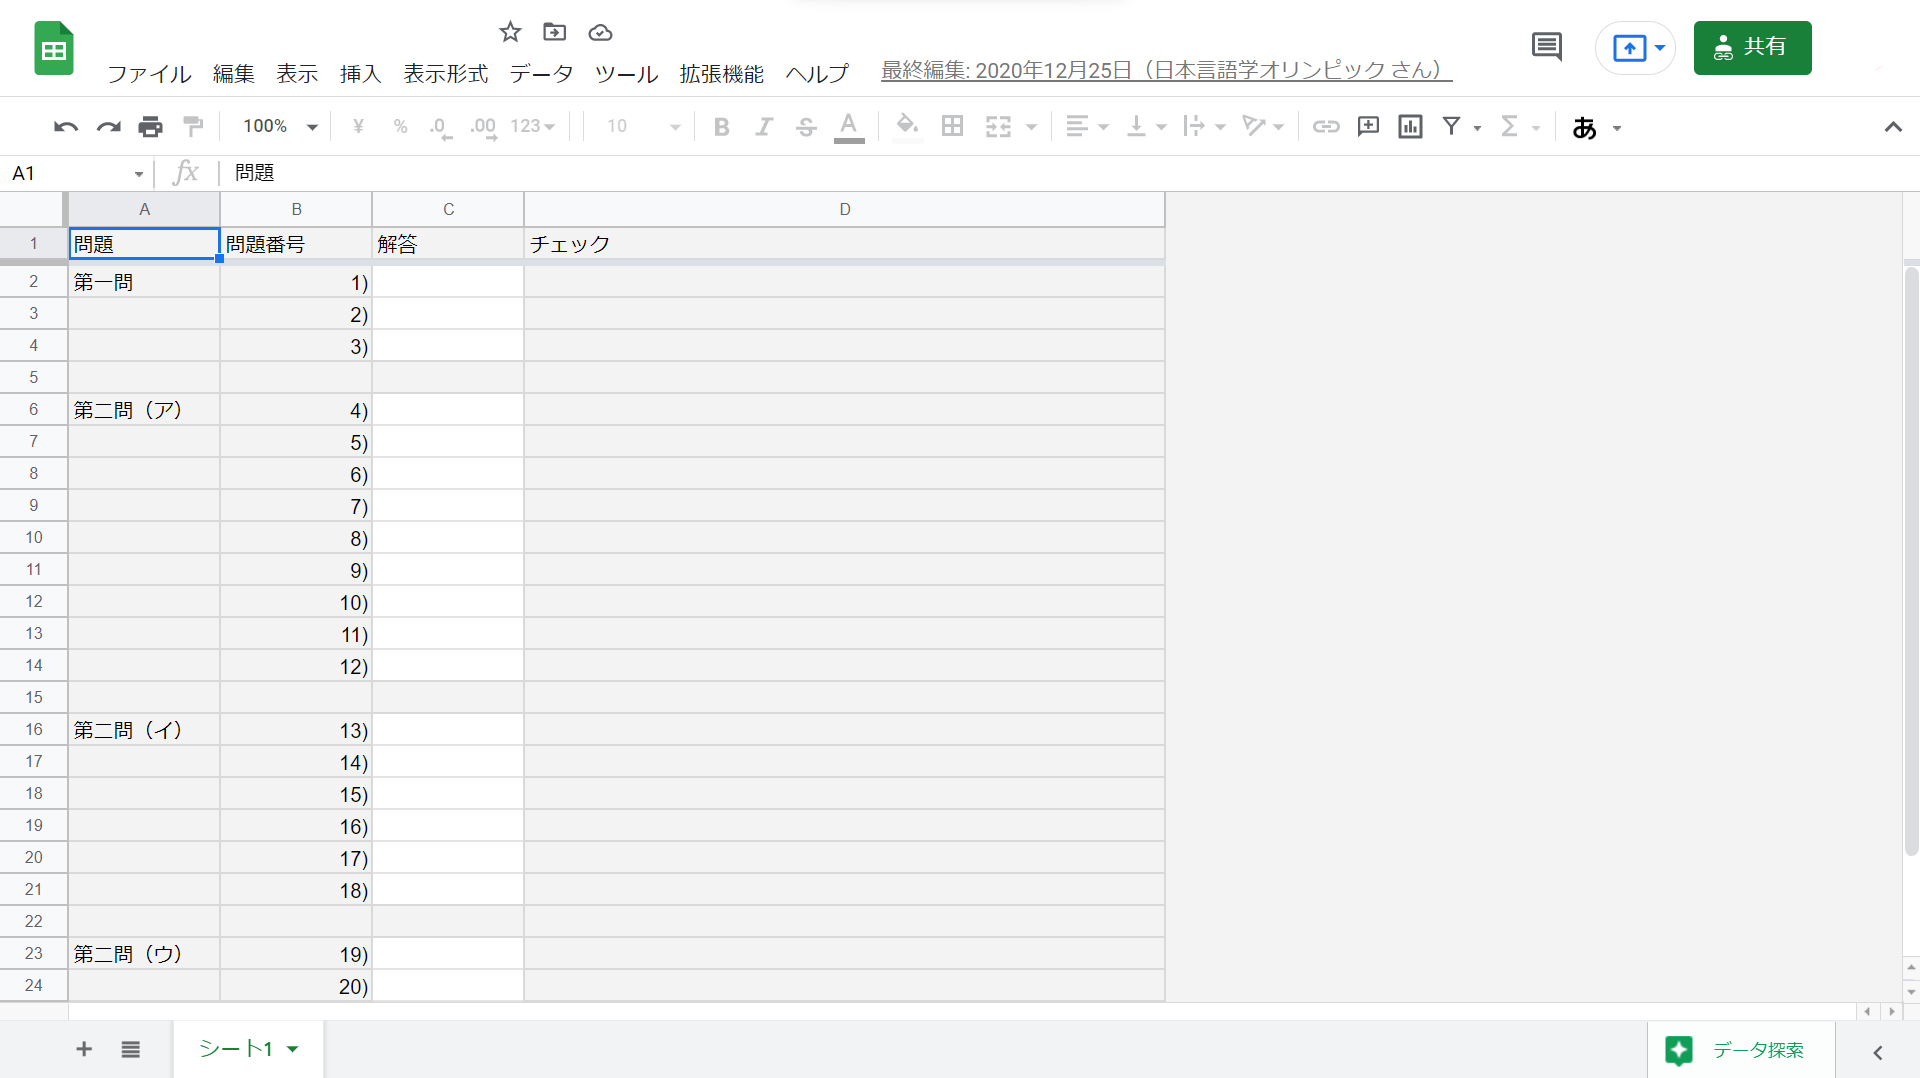
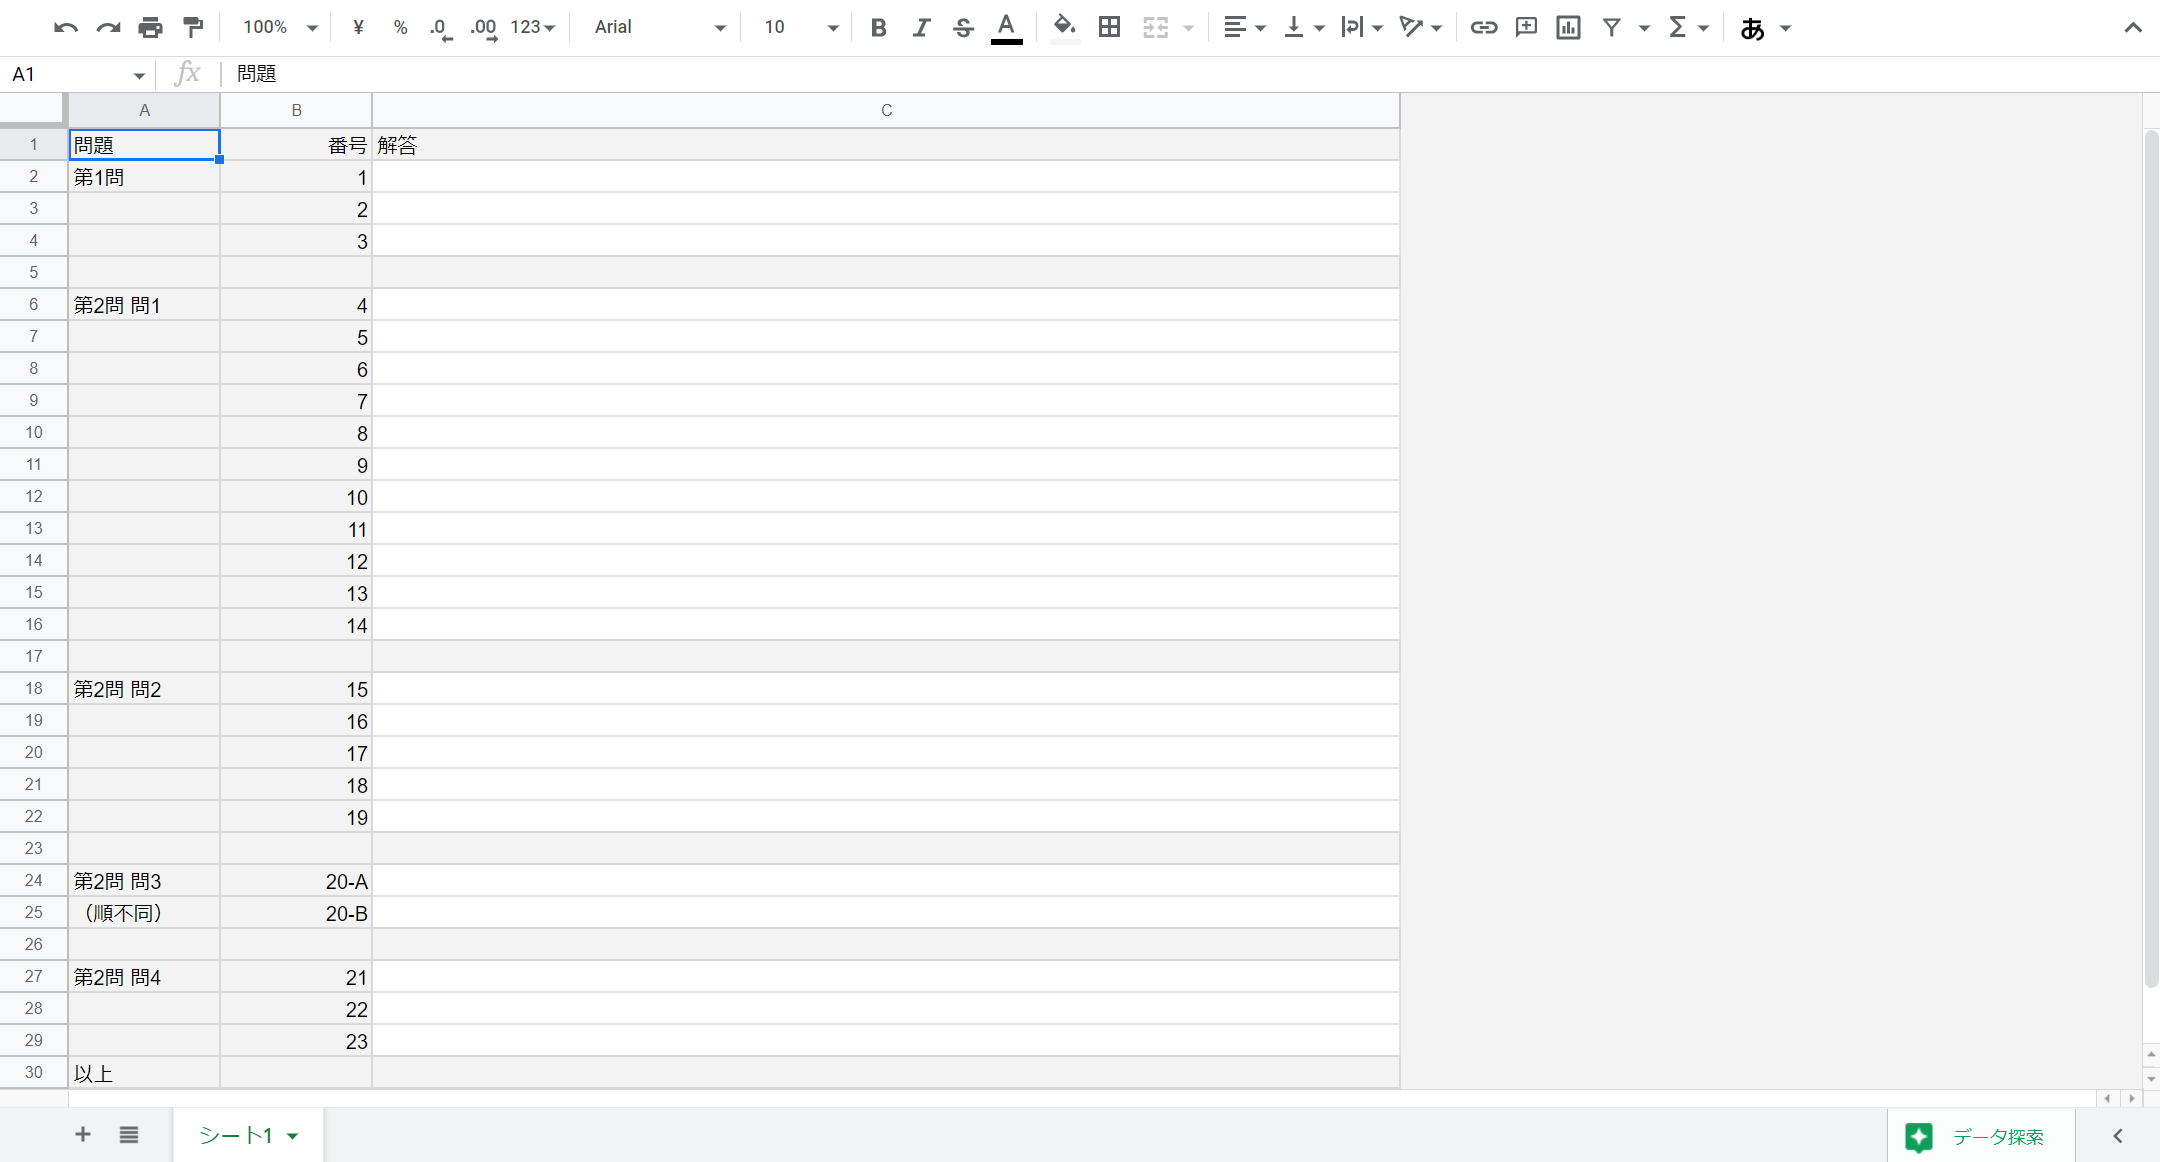
JOL2023demo 説明更新

diff --git a/assets/js/contest/jol2023/demo.ts b/assets/js/contest/jol2023/demo.ts
@@ -28,7 +28,10 @@ document.addEventListener("DOMContentLoaded", (event) => {
                         if (userInfo) {
                             ELEM_email!.innerText = userInfo.email;
                             ELEM_name!.innerText = userInfo.name;
-                            ELEM_spot!.innerText = userInfo.spot == "flag" ? "選抜" : "オープン";
+                            ELEM_spot!.innerText = userInfo.spot === "flag" ? "選抜" : "オープン";
+                            for (const elem of document.getElementsByClassName("only-flag") as HTMLCollectionOf<HTMLElement>) {
+                                elem.style.display = userInfo.spot === "flag" ? "block" : "none";
+                            }
                         }
                     });
                     onValue(ref(db, '/contests/jol2023/publish/demo/'), (snapshot2) => {

diff --git a/content/contest/jol2023/demo.md b/content/contest/jol2023/demo.md
@@ -36,6 +36,8 @@ isFBInit = false
 
 <button type="button" class="btn btn-primary" id="timerbtn">練習用タイマー</button>
 
+練習用タイマーを押すと，競技開始5秒前の状況が再現されます．
+
 <div id="timer" class="fa-2x">競技開始まで</div>
 
 {{< card-header >}}
@@ -89,11 +91,13 @@ isFBInit = false
 - 手書き・電子を問わず，メモを取って構いません．pdf内検索をしても構いません．
 - 複数の端末を使っても構いません．たとえば問題は pc で閲覧して，解答はスマホ，でも構いません．ただし，問題pdf と解答用ページのリンクの扱いに注意してください．
 - 解答用ページはグーグルのサービスであるグーグルスプレッドシートを用いますが，Google アカウントにログインしていなくても解答が可能なように設定してあります．したがって Google アカウントにログインする必要はありません．逆に何らかの Google アカウントにログインしていても構いません（応募に使用した Google アカウントとは別のアカウントにログインしていても構いません）．
+- 競技中は飲食自由です．
 
 ### 競技中の注意事項（デモ）
 
-- 問題冊子は4ページまであります．
+- 問題冊子は6ページまであります．
 - 競技時間は120分です．問題は2問あります．どの問題から解いても構いません．
+- 競技開始時刻になったら，解答用ページのリンクを開いて解答を入力してください．
 - 競技終了時刻になったら，速やかに解答を終了してください．競技終了時刻以降に入力された解答は採点されません．
 - 競技中は**資料や外部の情報源を使用してはいけません**．不正行為が発覚した場合は失格となります．
 - 問題について質問がある場合は，質問用 slido にアクセスし，質問を記入してください．
@@ -101,12 +105,12 @@ isFBInit = false
 ### 解答の注意（デモ）
 
 - 解答はすべて解答用ページの指定の解答欄に入力してください．
-- 小問は全部で21問あります．各小問には問題番号が1から21まで振られています．問題番号に対応する解答欄に入力してください．
+- 小問は全部で23問あります．各小問には問題番号が1から23まで振られており，小問20にはA, Bの2つの解答項目があります．問題番号に対応する解答欄に入力してください．
 - 解答欄以外には何も入力しないでください．
 - 誤字・脱字がないよう注意深く入力してください．
 - 問題文の表記通りに記入してください．
 
-{{< simplebox よくある間違いの例 "ml-4" >}}
+{{< simplebox よくある間違いの例 "ms-4" >}}
 
 「あなたは言語学オリンピックを受験する」と解答すべき部分で，以下のように解答しないでください:
 
@@ -118,14 +122,78 @@ isFBInit = false
 
 - アラビア数字・アルファベット・スペースは半角で解答してください．
 
-{{< simplebox よくある間違いの例 "ml-4" >}}
+{{< simplebox よくある間違いの例 "ms-4" >}}
 
 「2」と解答すべき部分で，「２」「二」「II」のように解答しないでください．
 
 {{< /simplebox >}}
 
+- 入力がしにくい文字は，代わりの入力法が指示されています．問題中の指示に従ってください．
 - 句読点やピリオドは入れても入れなくてもかまいません．
 - 大文字と小文字の区別はしなくてかまいません．
+
+### 採点基準について
+
+- 部分点を重視するので，**分かったことがあれば部分的にでも書いてください**．複数の解答が考えられる場合は，最も適切だと予想する解答を書いてください．
+
+{{< simplebox "例題1（3点）" "ms-4" >}}
+
+以下に言語Xの動詞とその日本語訳が4つある．
+
+{{< table class="list-like ms-2" >}}
+
+||||
+| --- | --------- | ---------------- |
+| ア) | nilipika  | 私は料理した     |
+| イ) | anapika   | 彼は料理している |
+| ウ) | ninajenga | 私は建てている   |
+| エ) | [ 1 ]     | 彼は建てた       |
+
+{{< /table >}}
+
+空欄[ 1 ]を埋めなさい．[3点，部分点あり]
+
+{{< table class="list-like ms-2" >}}
+|||
+| --------------------------------------------- | ----------------- |
+| 1. alijenga                                   | ←正解 (3 点)     |
+| 1. anlijenga / anajenga / nilijenga / lijenga | ←部分点 (2 点)   |
+| 1. ninajenga / jenga                          | ←部分点 (1 点)   |
+| 1. ninapika                                   | ←得点なし (0 点) |
+{{< /table >}}
+{{< /simplebox >}}
+
+- 設問と配点は必ずしも対応しません．複数の設問に正解して初めて点が与えられる場合もあります．
+
+{{< simplebox "例題2（3点）" "ms-4" >}}
+
+以下に言語Yの名詞の単数形と複数形が7つある．
+
+{{< table class="list-like ms-2" >}}
+
+|||||
+| --- | -------- | ------- | --------- |
+|     | 日本語訳 | 単数形  | 複数形    |
+| ア) | 薬       | karu    | karu      |
+| イ) | 子ども   | ngaleke | rengaleke |
+| ウ) | 犬       | bilis   | bilis     |
+| エ) | 友人     | secheli | resecheli |
+| オ) | 教師     | sensei  | [ 1 ]     |
+| カ) | 車       | mlai    | [ 2 ]     |
+| キ) | 少年     | buik    | [ 3 ]     |
+{{< /table >}}
+
+空欄[ 1 ]～[ 3 ]を埋めなさい． [3点, 完答]
+
+{{< table class="list-like ms-2" >}}
+|||||
+| ------------ | --------- | --------- | ----------------- |
+| 1. resensei | 2. mlai   | 3. rebuik | ←正解 (3 点)     |
+| 1. resensei | 2. remlai | 3. rebuik | ←得点なし (0 点) |
+| 1. sensei   | 2. mlai   | 3. buik   | ←得点なし (0 点) |
+{{< /table >}}
+
+{{< /simplebox >}}
 
 ## 事前準備事項
 
@@ -166,6 +234,7 @@ isFBInit = false
 
 質問は slido というサービスから受け付けます．試しにアクセスし，可能なら本ページや競技について質問してみてください．（本ページには体験版用のslidoへのリンクが載っています．本番は本番用に別のslidoを用意しますのでご注意ください．）
 
+{{< wrap tag=div class="only-flag" >}}
 {{< simplebox "選抜枠のみ" >}}
 
 身分証が手元にあるか確認してください．身分証は学生証があれば学生証をご用意ください．学生証がなければ顔写真，名前，生年月日の少なくともどれか1つが確認できるものをご用意ください．
@@ -173,6 +242,7 @@ isFBInit = false
 面接では zoom を用います．<b>カメラとマイクを付けて</b> zoom が使える状態にしておいてください．
 
 {{< /simplebox >}}
+{{< /wrap >}}
 
 事前準備事項は以上です．
 
@@ -185,23 +255,23 @@ isFBInit = false
 |||
 |---|---|
 |12:30~|事前準備|
-|13:00~15:00|筆記試験|
-|16:30 ごろ|面接対象者発表（{{<icon flag 選抜枠>}}のみ）|
-|17:00~|面接試験（{{<icon flag 選抜枠>}}のみ）|
+|13:00~15:00|本競技|
+|17:30頃|面接対象者発表（{{<icon flag 選抜枠>}}のみ）|
+|18:00~|面接試験（{{<icon flag 選抜枠>}}のみ）|
 
 {{</table>}}
 
 - 競技開始30分ほど前から各自動作確認をしておいてください．
 - 競技は13:00から15:00までの2時間です．
 - 質問はslidoから受け付けます．
-- 16:30頃までに「JOL2023競技会場」で面接対象者を発表します．
+- 17:30頃までに「JOL2023競技会場」で面接対象者を発表します．
   - 面接の対象であるかどうか，対象である場合は面接用ZoomミーティングのURLの発表時間，集合時間，面接開始予定時間の3つをお知らせします．
 - 面接用ZoomミーティングのURLの発表時間になったら，面接用ZoomミーティングのURL を発表します．
-- 面接は17:00から順次行われます．
-  - 面接中はビデオをオンにしていただくため，カメラの付いている端末でミーティングに参加してください．
+- 面接は18:00から順次行われます．
+  - 面接中はビデオとマイクをオンにしていただくため，カメラとマイクの付いている端末でミーティングに参加してください．
   - 面接開始予定時間より前にZoomミーティングに参加してメインルームで待機していてください．時間になると面接用のブレイクアウトルームに招待されます．
-  - 面接はひとり10分弱を予定しています．内容によって競技の成績が加点・減点されることはありませんが，不正が発覚したら失格となります．
-- 結果は翌日までに「JOL2023個人成績」でお知らせする予定です．結果が掲載されたらメールで通知します．
+  - 面接はひとり10分を予定しています．内容によって競技の成績が加点・減点されることはありませんが，不正が発覚したら失格となります．
+- 結果は1月10日に本サイト上でお知らせする予定です．結果が掲載されたらメールで通知します．
 
 当日の流れの説明は以上です．
 
